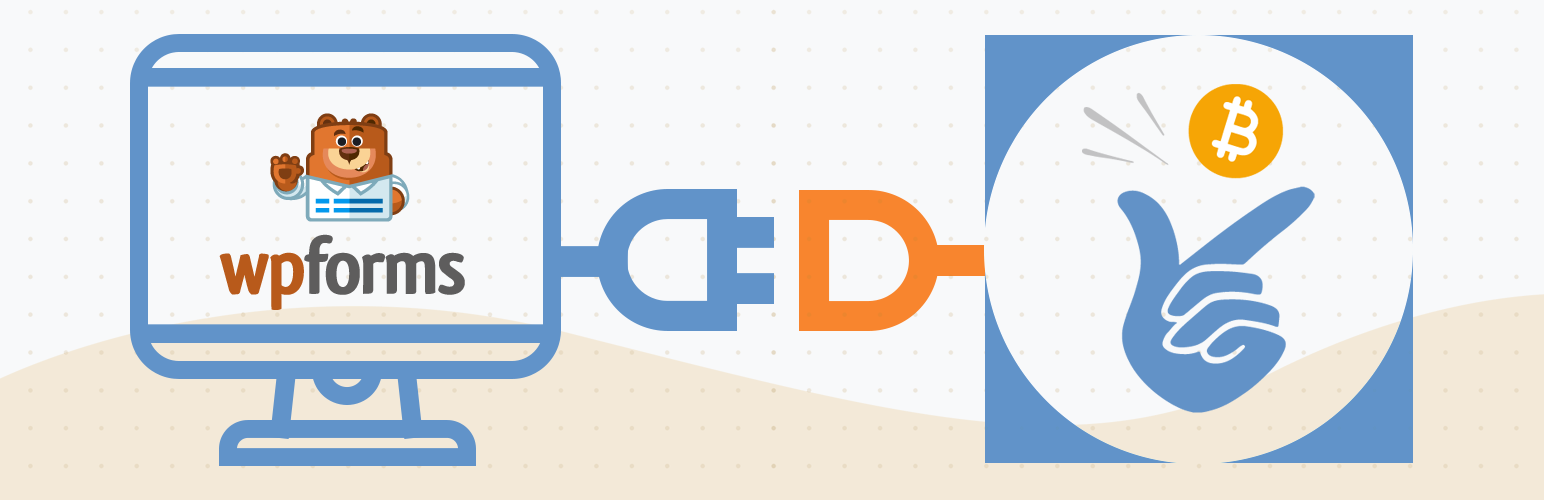
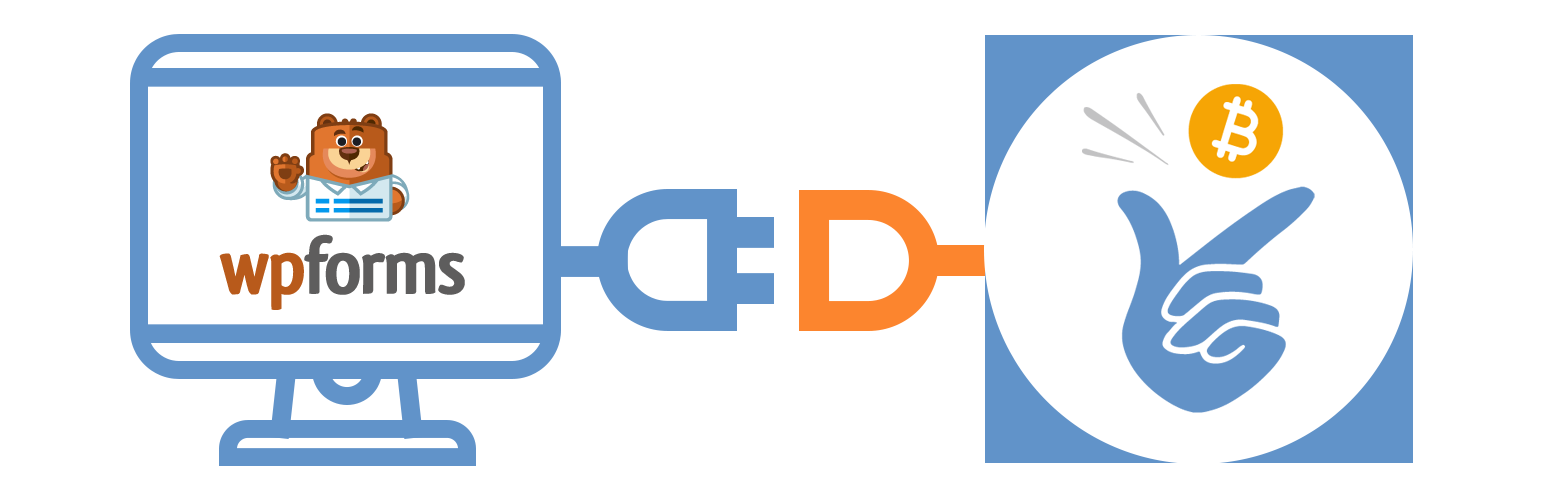
SNAP-1335 Top image and readme.md file update

Changed region(s): [[0.0, 0.57, 1.0, 1.0]]

diff --git a/README.md b/README.md
@@ -1,5 +1,5 @@
 # Coinsnap for WP Forms payment plugin #
-![Coinsnap for WP Forms Add-on](https://resources.coinsnap.org/products/wpforms/images/1.png)
+![Coinsnap for WP Forms Add-on](https://resources.coinsnap.org/products/wpforms/images/banner-772x250.png)
 
 ## Bitcoin and Lightning payments for WP Forms in WordPress ##
 
@@ -30,15 +30,15 @@ Coinsnap’s payment plugin for WPForms makes it amazingly simple for your custo
 
 # Bitcoin and Lightning payments in WPForms Pro with Coinsnap #
 
-![WPForms Plugin for Wordpress](https://resources.coinsnap.org/products/wpforms/images/2.png)
+![WPForms Plugin for Wordpress](https://resources.coinsnap.org/products/wpforms/images/screenshot-2.jpg)
 
 Would you like to give your visitors the option to make payments directly via your WordPress forms? WPForms plugin makes it easy for you to accept payments on your website via PayPal, Stripe, Square or Authorize.Net. And with [Coinsnap](https://coinsnap.io/en/) for WPForms you can also accept Bitcoin and Lightning payments via Coinsnap payment gateway https://app.coinsnap.io/.
 
-![WPForms donation form](https://resources.coinsnap.org/products/wpforms/images/5.png)
+![WPForms donation form](https://resources.coinsnap.org/products/wpforms/images/screenshot-5.png)
 
 To do this, you need the installed and configured WPForms plugin (https://wpforms.com/) on your WordPress site, enter Pro license key in WPForms settings form. Additionally you need to install Coinsnap add-on for WPForms.
 
-![WPForms license key](https://resources.coinsnap.org/products/wpforms/images/6.png)
+![WPForms license key](https://resources.coinsnap.org/products/wpforms/images/screenshot-6.png)
 
 With the Coinsnap Bitcoin Lightning payment processing plugin you can immediately accept Bitcoin Lightning payments on your site. You don’t need your own Lightning node or any other technical requirements.
 
@@ -107,7 +107,7 @@ After successful installation, click Activate and then you can start setting up 
 
 ### 1.1. Add plugin ###
 
-![Plugin downloading from Github repository](https://resources.coinsnap.org/products/wpforms/images/3.jpg)
+![Plugin downloading from Github repository](https://resources.coinsnap.org/products/wpforms/images/screenshot-3.png)
 
 If you don’t want to install add-on directly via plugin, you can download Coinsnap WP Forms plug-in from Coinsnap Github page or from WordPress directory and install it via “Upload Plugin” function:
 
@@ -115,7 +115,7 @@ Navigate to Plugins > Add Plugins > Upload Plugin and Select zip-archive downloa
 
 Click “Install now” and Coinsnap WPForms plug-in will be installed in WordPress.
 
-![Manual plugin installation](https://resources.coinsnap.org/products/wpforms/images/4.png)
+![Manual plugin installation](https://resources.coinsnap.org/products/wpforms/images/screenshot-4.png)
 
 After you have successfully installed the plugin, you can proceed with the connection to Coinsnap payment gateway.
 
@@ -129,13 +129,13 @@ After the Coinsnap WPForms plug-in is installed and activated, a notice appears 
 * Enter Store ID and API Key
 * Click Save
 
-![Coinsnap store settings](https://resources.coinsnap.org/products/wpforms/images/7.png)
+![Coinsnap store settings](https://resources.coinsnap.org/products/wpforms/images/screenshot-7.png)
 
 If you don’t have a Coinsnap account yet, you can do so via the link shown: Coinsnap Registration
 
 ### 2. Create Coinsnap account ####
 
-![Coinsnap register](https://resources.coinsnap.org/products/wpforms/images/8.png)
+![Coinsnap register](https://resources.coinsnap.org/products/wpforms/images/screenshot-8.png)
 
 ### 2.1. Create a Coinsnap Account ####
 
@@ -147,7 +147,7 @@ If you are using a Lightning Wallet with Lightning Login, then you can also open
 
 You will receive an email to the given email address with a confirmation link, which you have to confirm. If you do not find the email, please check your spam folder.
 
-![E-mail address confirmation](https://resources.coinsnap.org/products/wpforms/images/9.png)
+![E-mail address confirmation](https://resources.coinsnap.org/products/wpforms/images/screenshot-9.png)
 
 Then please log in to the Coinsnap backend with the appropriate credentials.
 
@@ -168,7 +168,7 @@ https://coinsnap.io/lightning-wallet-mit-lightning-adresse/
 
 ### 3.1. WPForms Coinsnap Settings ###
 
-![Connect website with Coinsnap](https://resources.coinsnap.org/products/wpforms/images/10.png)
+![Connect website with Coinsnap](https://resources.coinsnap.org/products/wpforms/images/screenshot-10.png)
 
 * Navigate to WPForms > Add or Edit Forms > Payments and select coinsnap
 * Enter Store ID and API Key
@@ -186,7 +186,7 @@ We make a real donation payment in our test WPForms site.
 
 The Bitcoin + Lightning payment page is now displayed, offering the payer the option to pay with Bitcoin or also with Lightning. Both methods are integrated in the displayed QR code.
 
-![QR code on the Bitcoin payment page](https://resources.coinsnap.org/products/wpforms/images/11.png)
+![QR code on the Bitcoin payment page](https://resources.coinsnap.org/products/wpforms/images/screenshot-11.png)
 
 
 # Changelog
